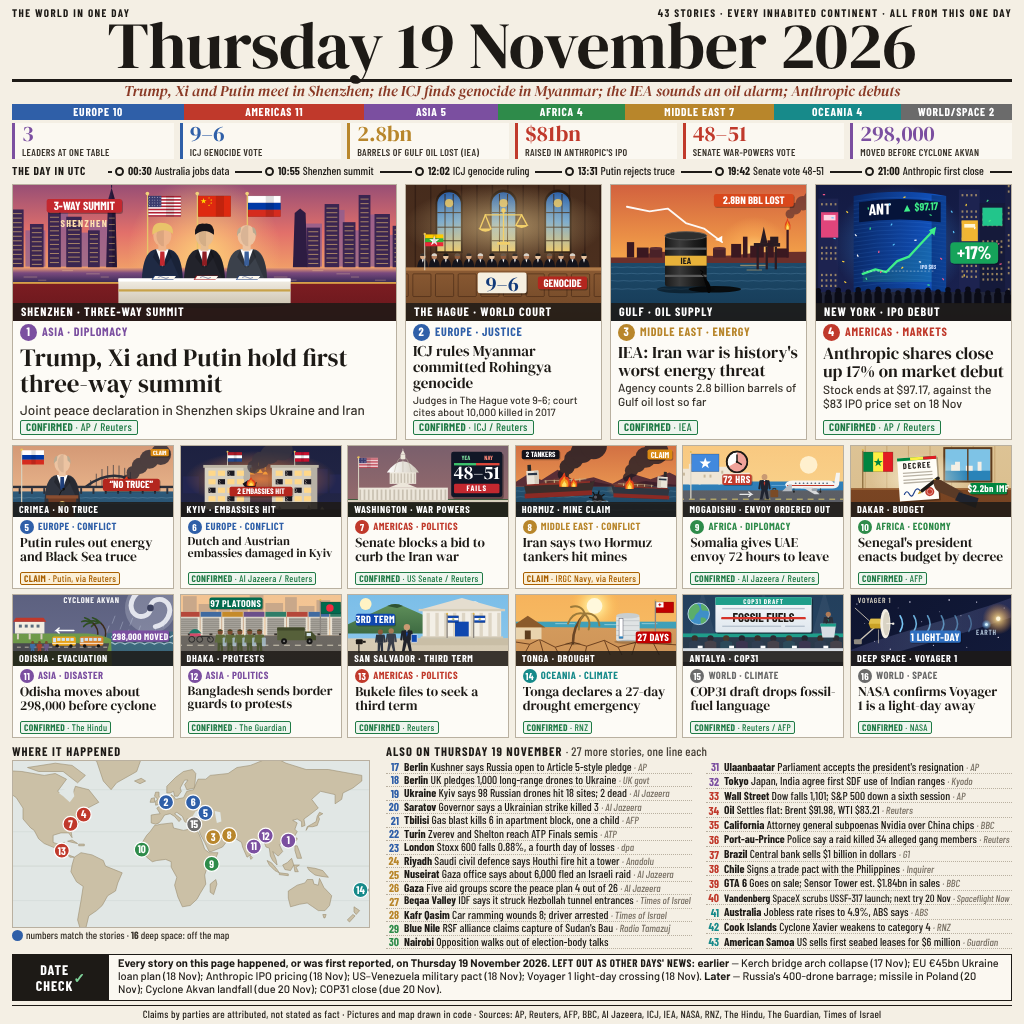
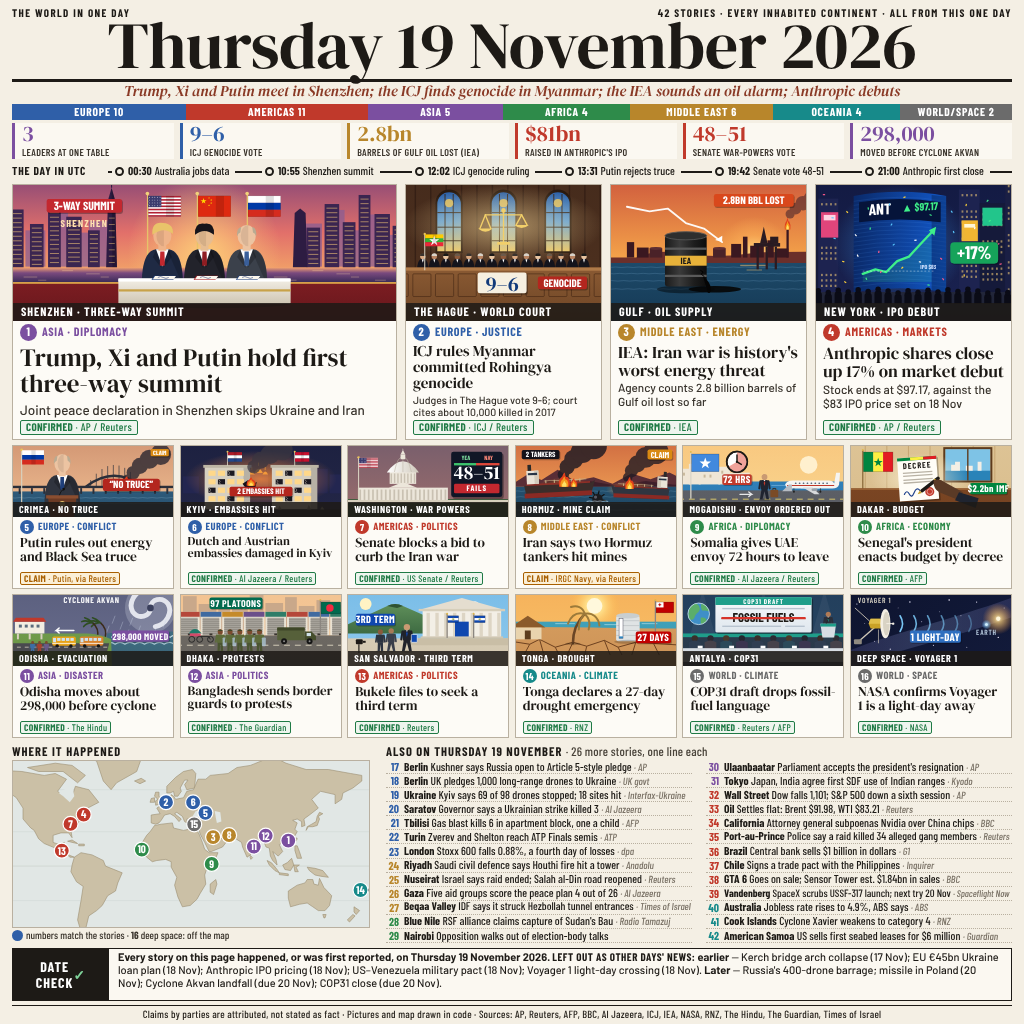
Fact re-check: correct three briefs (Ukraine toll, Nuseirat, drop 18 Nov ramming); 42 stories

diff --git a/research/r1-notes.md b/research/r1-notes.md
@@ -10,3 +10,8 @@
 - The UN figure of 2,230 civilian deaths in Sudan this year, mostly from drones, was released 18 Nov.
 - Ghana’s Falcon 6X presidential jet was reported delivered around 16–17 Nov, not on 19 Nov.
 - The Sudan drone strike that killed at least 10 at the Bajoun gold mine was on Wednesday 18 Nov.
+- ukraine-98-drones: dropped “2 killed and at least 23 wounded” (that toll matches Friday 20 Nov reports, not the Air Force account). Kept 98 launched, 69 downed or jammed, hits at 18 sites.
+- gaza-nuseirat: the about-6,000 flight was Wednesday 18 Nov. Thursday’s report is that Israel said the raid ended and Salah al-Din reopened.
+- tbilisi-gas-blast: dropped “over 100 people”; 19 Nov reports confirm 6 dead, a child among them, and 28 families to be moved.
+- riyadh-kafd: named the tower as the PIF headquarters; civil defence also reported damage to nearby buildings and no injuries.
+- kafr-qasim-ramming: the ramming was Wednesday evening; first detailed reports are early 19 Nov, and police said later that day they saw no nationalist motive.
